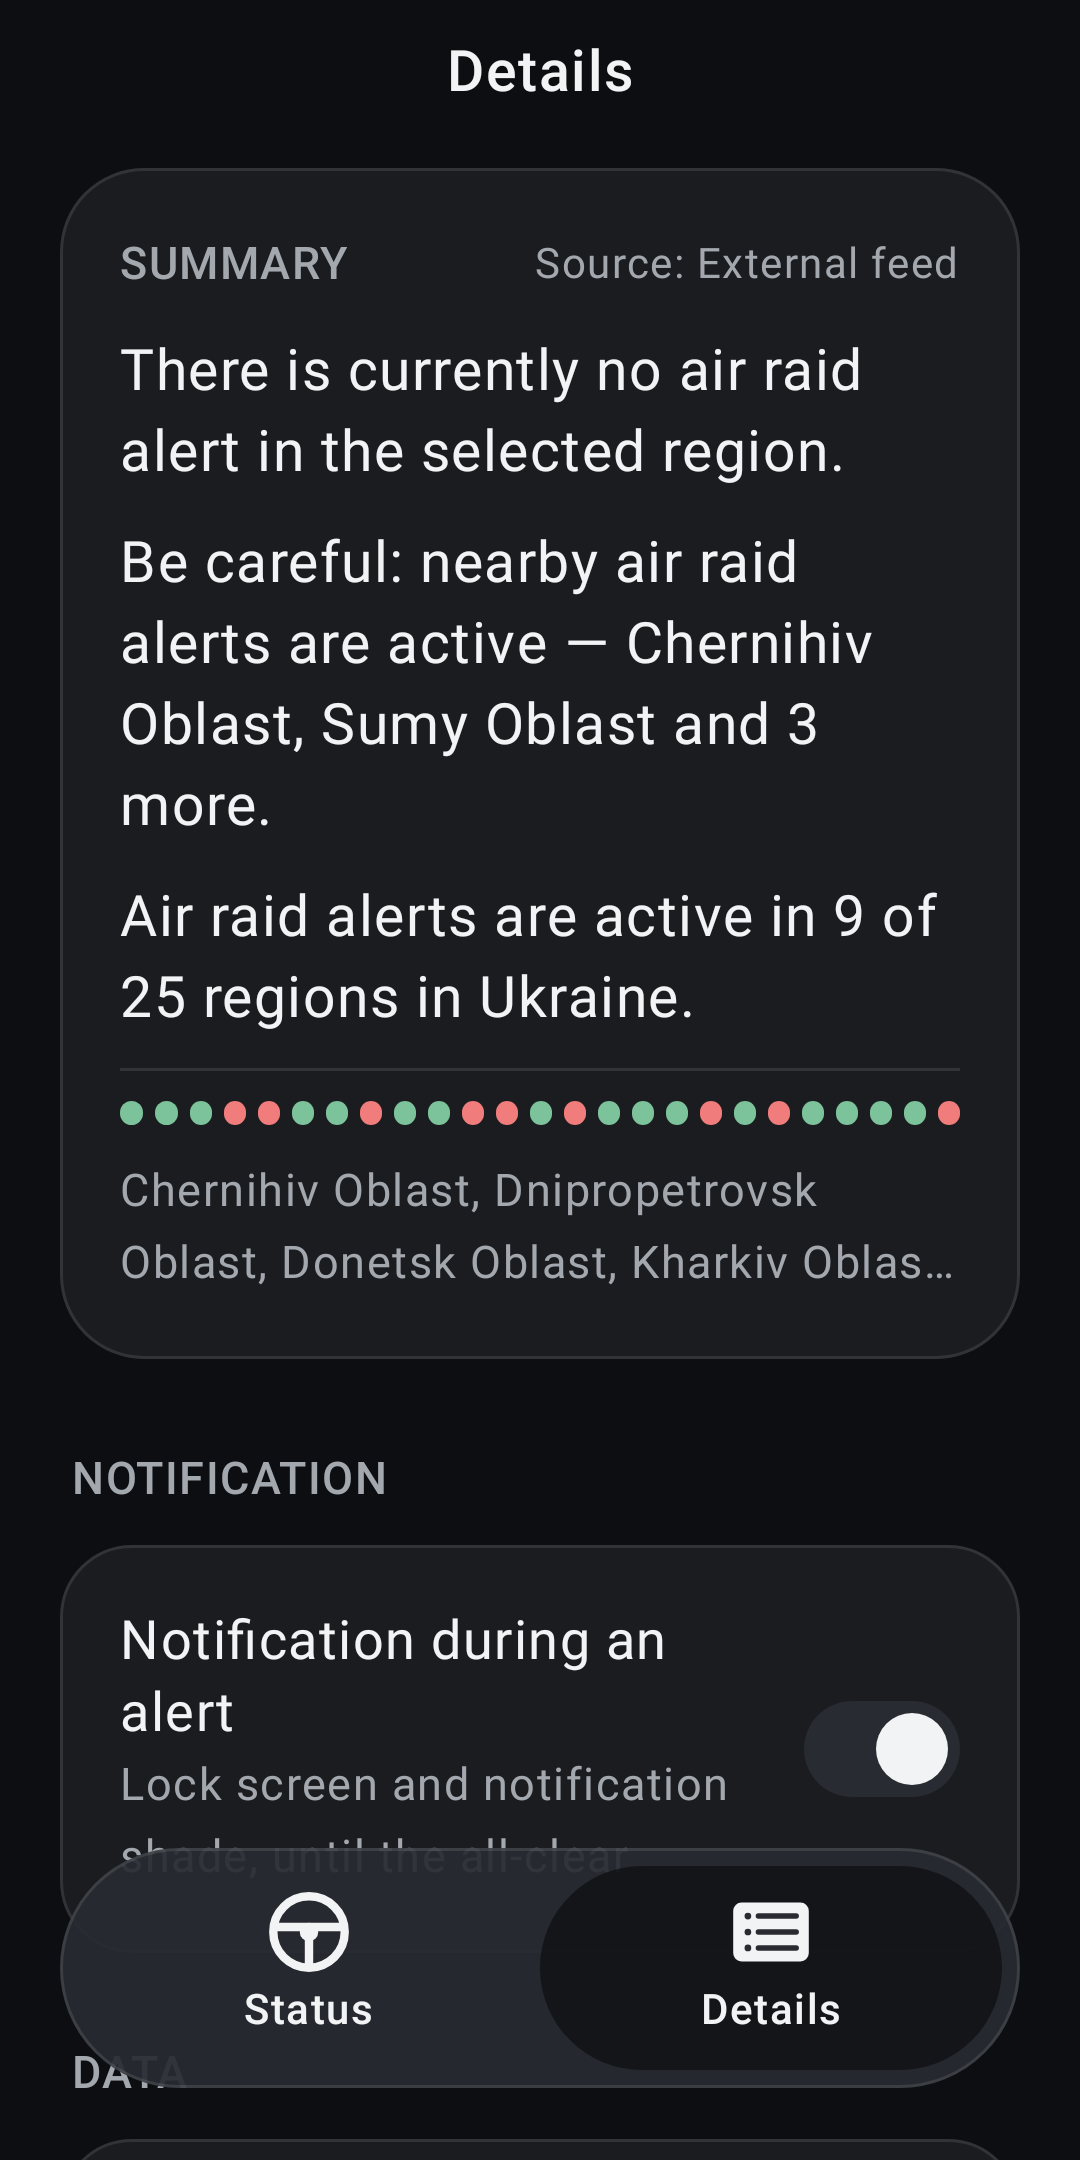
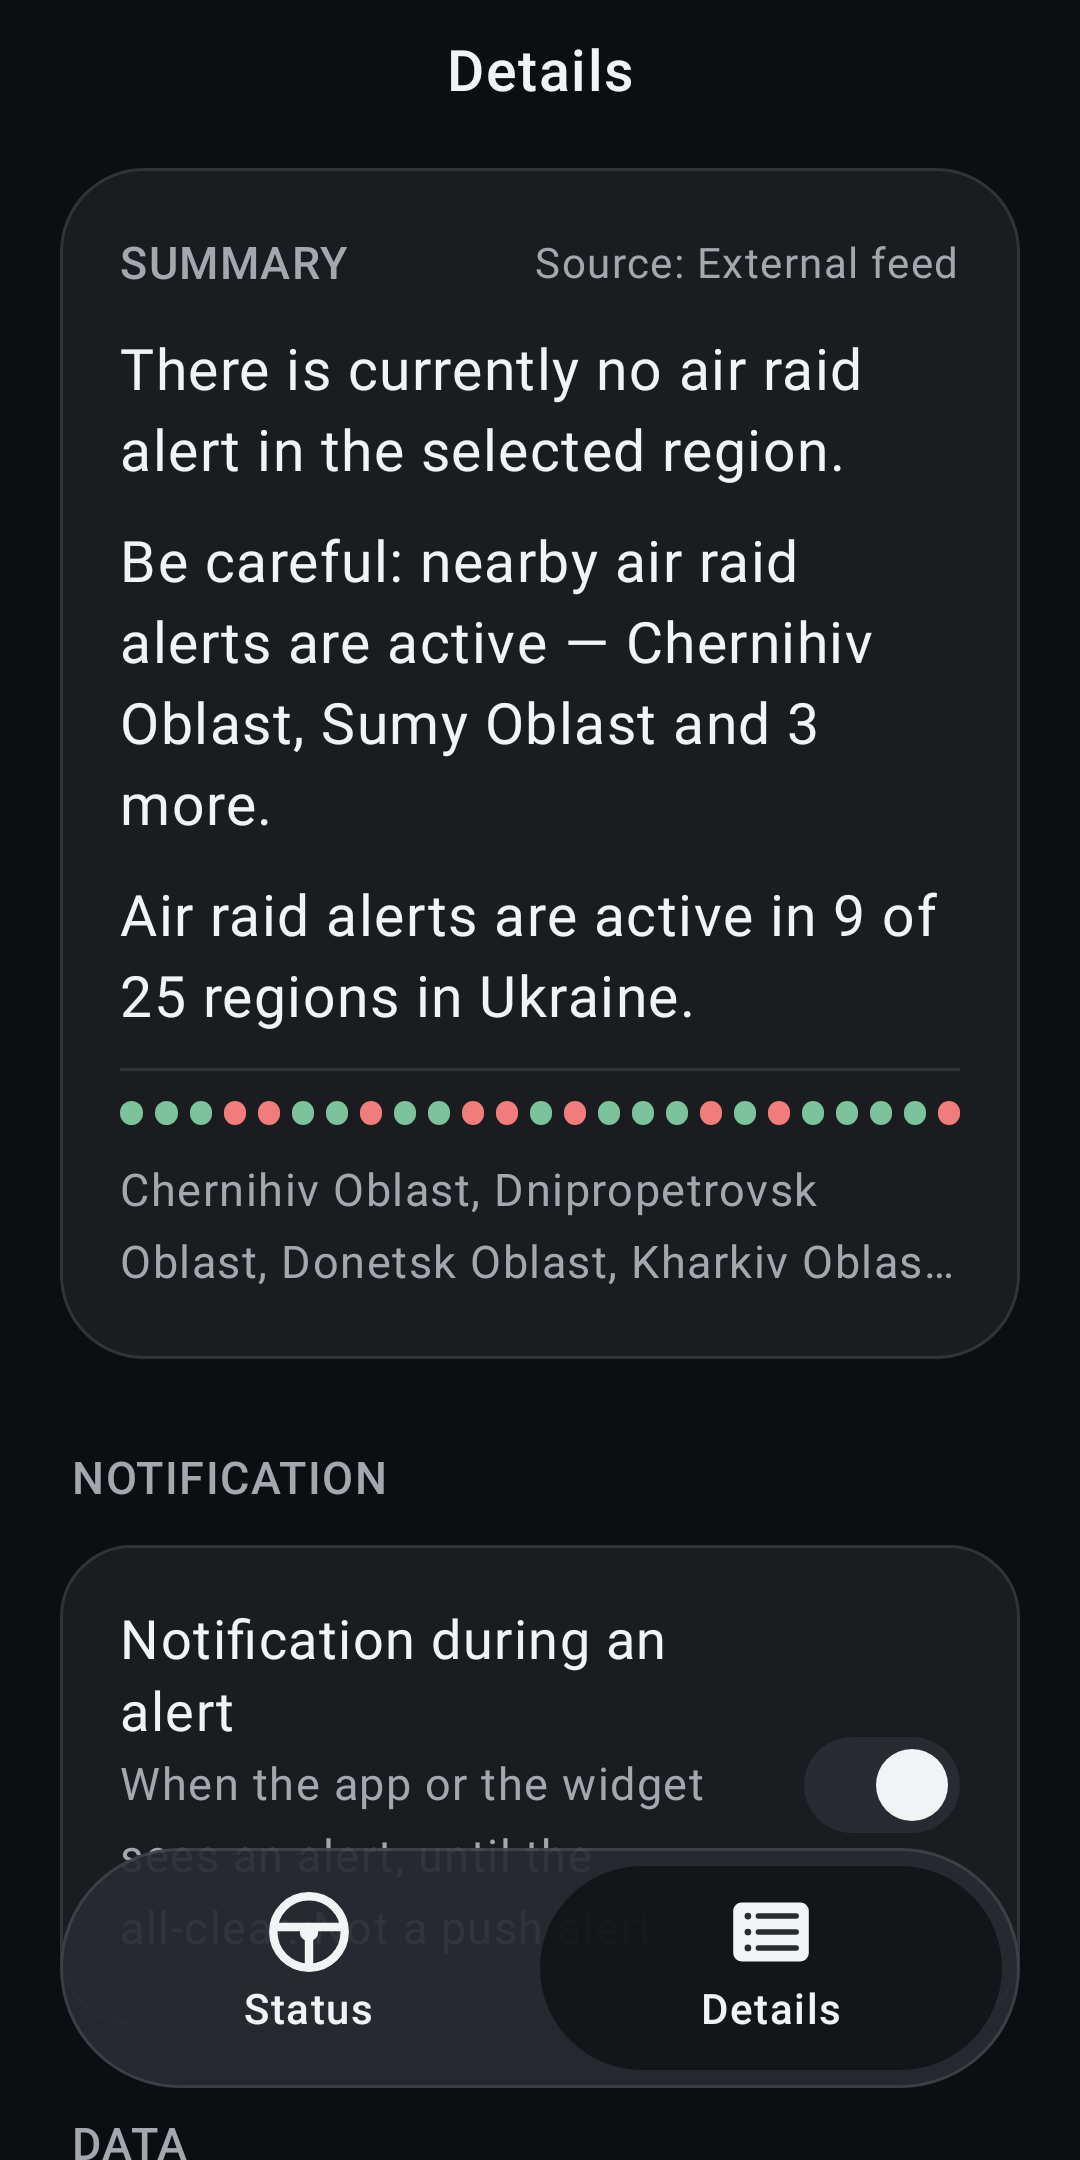
fix: address the PR 4 review (honest notification claim, guards, policy)
The Opus review of PR 4 found one medium and five lows.

- M: the listing promised a lock-screen notification "for the length of
  an alert", but nothing polls or pushes in the background: the
  notification follows what the app or the widget sees. The listing (en,
  uk, ru) and the Details caption now say so, and that it is not a push
  alert service.
- The copy guard and the listing check also know the Ukrainian and Russian
  car words, and the guard skips XML comments; the listing check enforces
  the 30-character app name.
- The privacy policy says the app keeps the last region (Kyiv if none) and
  that its data is excluded from backups and device-to-device transfer,
  which data_extraction_rules.xml now enforces on Android 12+.
- The Play icon is a 32-bit PNG with alpha, as Play asks.

Validation: ./gradlew check, the iOS compile of shared, spec-trace 40/40
and the scripts' unit tests (29), green; screenshots of Details and the
switch re-recorded with the new caption.

diff --git a/androidApp/src/test/kotlin/io/github/vil4max/drivecheck/ReleaseCopyGuardTest.kt b/androidApp/src/test/kotlin/io/github/vil4max/drivecheck/ReleaseCopyGuardTest.kt
@@ -5,20 +5,35 @@ import java.io.File
 import kotlin.test.assertEquals
 import kotlin.test.assertTrue
 
-// Spec 002 T018 and the owner's decision of 2026-10-17 (spec 005): 1.0 ships no car screen, so no
-// string in any locale may promise one.
+// Spec 002 T018 and the owner's decision of 2026-10-17 (spec 004): 1.0 ships no car screen, so no
+// string in any locale may promise one. Comments are not copy and are skipped.
 class ReleaseCopyGuardTest {
     @Test
     fun release_guard_no_string_promises_a_car_screen() {
         val strings = File("src/main/res").walkTopDown().filter { it.isFile && it.parent.contains("values") && it.extension == "xml" }.toList()
         assertTrue(strings.size >= 3, "string files found: ${strings.size}")
-        val promises = strings.flatMap { file ->
-            file.readLines().filter { line -> CAR_SURFACES.any { line.contains(it, ignoreCase = true) } }.map { "${file.parentFile.name}/${file.name}: ${it.trim()}" }
-        }
-        assertEquals(emptyList(), promises)
+        assertEquals(emptyList(), strings.flatMap { file -> promises(file.readText()).map { "${file.parentFile.name}/${file.name}: $it" } })
     }
 
+    @Test
+    fun release_guard_knows_the_uk_and_ru_words_and_skips_comments() {
+        assertEquals(listOf("Статус на екрані авто"), promises("<string name=\"a\">Статус на екрані авто</string>"))
+        assertEquals(listOf("Статус на экране авто"), promises("<string name=\"a\">Статус на экране авто</string>"))
+        assertEquals(listOf("Works in Android Auto"), promises("<string name=\"a\">Works in Android Auto</string>"))
+        assertEquals(emptyList(), promises("<!-- CarPlay reads Android Auto -->\n<string name=\"a\">Автоматично</string>"))
+    }
+
+    private fun promises(xml: String): List<String> =
+        Regex(">([^<]*)</string>").findAll(xml.replace(Regex("<!--.*?-->", RegexOption.DOT_MATCHES_ALL), ""))
+            .map { it.groupValues[1] }
+            .filter { text -> CAR_SURFACES.any { text.contains(it, ignoreCase = true) } }
+            .toList()
+
     private companion object {
-        val CAR_SURFACES = listOf("Android Auto", "CarPlay", "Automotive")
+        val CAR_SURFACES = listOf(
+            "Android Auto", "CarPlay", "Automotive",
+            "екрані авто", "в авто", "автомобіл", "машин",
+            "экране авто", "автомобил",
+        )
     }
 }

diff --git a/docs/privacy-policy.html b/docs/privacy-policy.html
@@ -22,7 +22,7 @@ p, li { color: #333; }
 <p>Drive Check (“the App”) shows the air raid alert status of the region of Ukraine you are in. It is published on Google Play by vil4max.</p>
 
 <h2>Location</h2>
-<p>The App asks for your location only while it is open on screen, to find which region to show. It never asks for background location. To turn coordinates into a region, the App uses Android’s built-in geocoder, which may send the coordinates to the geocoding service of your device’s provider (on most devices, Google). The App itself never sends your location to the developer or to the alert data provider. If you do not allow location, the App shows Kyiv.</p>
+<p>The App asks for your location only while it is open on screen, to find which region to show. It never asks for background location. To turn coordinates into a region, the App uses Android’s built-in geocoder, which may send the coordinates to the geocoding service of your device’s provider (on most devices, Google). The App itself never sends your location to the developer or to the alert data provider. If you do not allow location, the App keeps the last region it found, or shows Kyiv if there is none.</p>
 
 <h2>Alert data</h2>
 <p>When you open the App, refresh it, or a widget or notification updates, the App requests the public alert status of all regions from the Ubilling aerial alerts service (ubilling.net.ua). The Status tab can also load the provider’s alert map image. These requests carry no personal data; like any web request, they reveal your IP address and an app identifier (“DriveCheck” and its version) to that service.</p>
@@ -31,7 +31,7 @@ p, li { color: #333; }
 <p>The alert notification, the home-screen widget and the quick-settings tile are created on your device from the same alert data. You can turn the notification off in the App’s Details tab or in Android settings.</p>
 
 <h2>What the App keeps</h2>
-<p>The App keeps the last alert data, your current region and its own settings on your device only. They are not backed up and are removed when you uninstall the App or clear its data.</p>
+<p>The App keeps the last alert data, your current region and its own settings on your device only. They are excluded from Android backups and from device-to-device transfer, and are removed when you uninstall the App or clear its data.</p>
 
 <h2>What the App does not do</h2>
 <ul>

diff --git a/scripts/listing-lengths.py b/scripts/listing-lengths.py
@@ -1,8 +1,8 @@
 #!/usr/bin/env python3
 """Check the Google Play listing texts against Play's length limits and the 1.0 surface list.
 
-Reads specs/005-release/play-listing.md: every fenced block under a "### Short description"
-heading must fit 80 characters, and under "### Full description" 4000.
+Reads specs/005-release/play-listing.md: the "App name" row must fit 30 characters, every fenced
+block under a "### Short description" heading 80, and under "### Full description" 4000.
 """
 
 import re
@@ -11,7 +11,12 @@ from pathlib import Path
 
 LIMITS = {"Short description": 80, "Full description": 4000}
 # The owner's decision of 2026-10-17 (spec 005): no car screen in 1.0, so no listing text names one.
-CAR_SURFACES = ["Android Auto", "CarPlay", "Automotive"]
+CAR_SURFACES = [
+    "Android Auto", "CarPlay", "Automotive",
+    "екрані авто", "в авто", "автомобіл", "машин",
+    "экране авто", "автомобил",
+]
+TITLE_LIMIT = 30
 LISTING = Path(__file__).resolve().parent.parent / "specs" / "005-release" / "play-listing.md"
 
 
@@ -40,6 +45,11 @@ def check(text: str) -> list[str]:
                     problems.append(f"{locale} {field}: promises {surface}, which 1.0 does not ship")
     if found == 0:
         problems.append("no listing text found")
+    title = re.search(r"^\| App name \| \d+ \| (.*?) \|$", text, flags=re.MULTILINE)
+    if title is None:
+        problems.append("no app name found")
+    elif len(title.group(1)) > TITLE_LIMIT:
+        problems.append(f"App name: {len(title.group(1))} > {TITLE_LIMIT}")
     return problems
 
 

diff --git a/scripts/tests/test_listing_lengths.py b/scripts/tests/test_listing_lengths.py
@@ -14,8 +14,8 @@ listing = importlib.util.module_from_spec(spec)
 spec.loader.exec_module(listing)
 
 
-def page(short: str, full: str = "Full.") -> str:
-    return f"## en-US\n\n### Short description\n\n```\n{short}\n```\n\n### Full description\n\n```\n{full}\n```\n"
+def page(short: str, full: str = "Full.", name: str = "DriveCheckUA") -> str:
+    return f"| App name | 30 | {name} |\n\n## en-US\n\n### Short description\n\n```\n{short}\n```\n\n### Full description\n\n```\n{full}\n```\n"
 
 
 class ListingLengthsTest(unittest.TestCase):
@@ -34,8 +34,17 @@ class ListingLengthsTest(unittest.TestCase):
             listing.check(page("x", "Works in android auto.")),
         )
 
+    def test_a_ukrainian_car_screen_promise_is_reported(self):
+        self.assertEqual(
+            ["en-US Short description: promises екрані авто, which 1.0 does not ship"],
+            listing.check(page("Статус на екрані авто")),
+        )
+
+    def test_a_long_app_name_is_reported(self):
+        self.assertEqual(["App name: 31 > 30"], listing.check(page("x", name="n" * 31)))
+
     def test_a_page_without_texts_fails(self):
-        self.assertEqual(["no listing text found"], listing.check("## en-US\n"))
+        self.assertEqual(["no listing text found", "no app name found"], listing.check("## en-US\n"))
 
     def test_the_real_listing_fits(self):
         result = subprocess.run([sys.executable, str(SCRIPT)], capture_output=True, text=True)

diff --git a/specs/005-release/play-listing.md b/specs/005-release/play-listing.md
@@ -40,7 +40,7 @@ What you get
 • A region that follows your location: nothing to pick or pin
 • Alerts in neighbouring regions, shown with your own status
 • The alert map as a reference image, loaded on demand and never on a timer; tap it for every region's status
-• An alert notification on the lock screen for the length of an alert, until the all-clear
+• A lock-screen notification while your region is under alert, once the app or the widget sees it, until the all-clear is seen. Not a push alert service
 • A home-screen widget with Refresh
 • A quick-settings tile
 
@@ -73,7 +73,7 @@ Drive Check відповідає на одне питання з одного п
 • Регіон за геолокацією: нічого не треба вибирати
 • Тривоги в сусідніх регіонах поруч із вашим статусом
 • Карта тривог як довідкове зображення: завантажується на вимогу, ніколи за таймером; торкніться її, щоб побачити статус усіх регіонів
-• Сповіщення на екрані блокування на час тривоги, до відбою
+• Сповіщення на екрані блокування, поки у вашому регіоні тривога: з'являється, коли застосунок або віджет її побачить, і тримається до відбою. Це не служба push-сповіщень
 • Віджет на головному екрані з кнопкою «Оновити»
 • Плитка у швидких налаштуваннях
 
@@ -106,7 +106,7 @@ Drive Check отвечает на один вопрос с одного взгл
 • Регион по геолокации: ничего не нужно выбирать
 • Тревоги в соседних регионах рядом с вашим статусом
 • Карта тревог как справочное изображение: загружается по запросу, никогда по таймеру; коснитесь её, чтобы увидеть статус всех регионов
-• Уведомление на экране блокировки на время тревоги, до отбоя
+• Уведомление на экране блокировки, пока в вашем регионе тревога: появляется, когда приложение или виджет её увидит, и держится до отбоя. Это не служба push-уведомлений
 • Виджет на главном экране с кнопкой «Обновить»
 • Плитка в быстрых настройках
 
